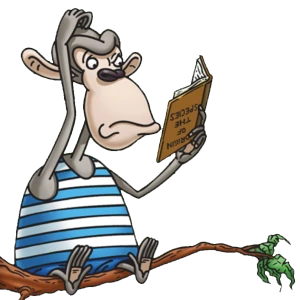
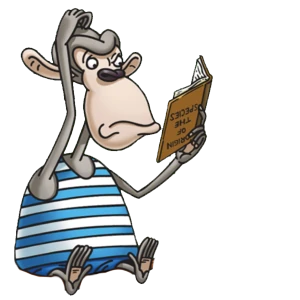
Darwin update

Changed region(s): [[0.51, 0.78, 0.99, 0.96], [0.0, 0.84, 0.24, 1.0], [0.27, 0.9, 0.45, 0.96]]

diff --git a/src/main/java/Controller.java b/src/main/java/Controller.java
@@ -99,10 +99,13 @@ public class Controller {
 
       if (bot.concede) {
         nigel.setImage(null);
+
+          Image darwinImg = new Image("darwin.png");
+          darwin.setImage(darwinImg);
+
+
         Image bg = new Image("landscape2.jpg");
         background.setImage(bg);
-        Image darwinImg = new Image("darwin.png");
-        darwin.setImage(darwinImg);
         userField.setVisible(true);
         butt_teach.setVisible(true);
         butt_no.setVisible(false);
@@ -124,12 +127,16 @@ public class Controller {
   public void teachAI(MouseEvent actionEvent) {
 
     if (bot.key.equals("inquireAnimal")) {
+      Image darwinImg = new Image("darwin2.png");
+      darwin.setImage(darwinImg);
       bot.setNewAnimal(userField.getText());
       userField.clear();
       bot.setKey("inquireQ");
       bot.determineQuestion();
       botOut.setText(bot.getQuestion());
     } else if (bot.key.equals("inquireQ")) {
+      Image darwinImg = new Image("darwin.png");
+      darwin.setImage(darwinImg);
       bot.setNewQuestion(userField.getText());
       userField.clear();
       bot.setKey("inquireAns");
